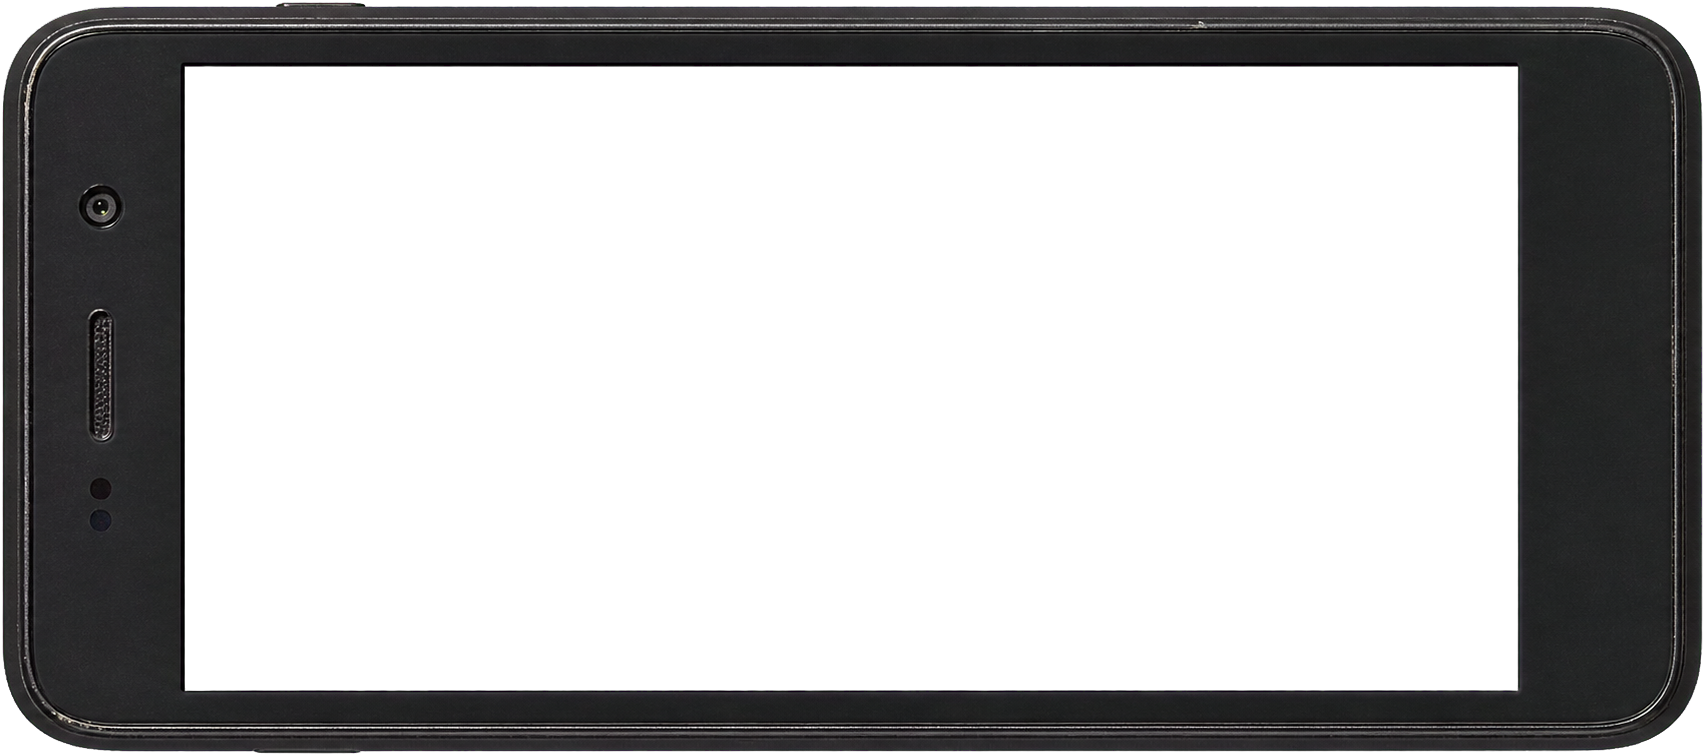
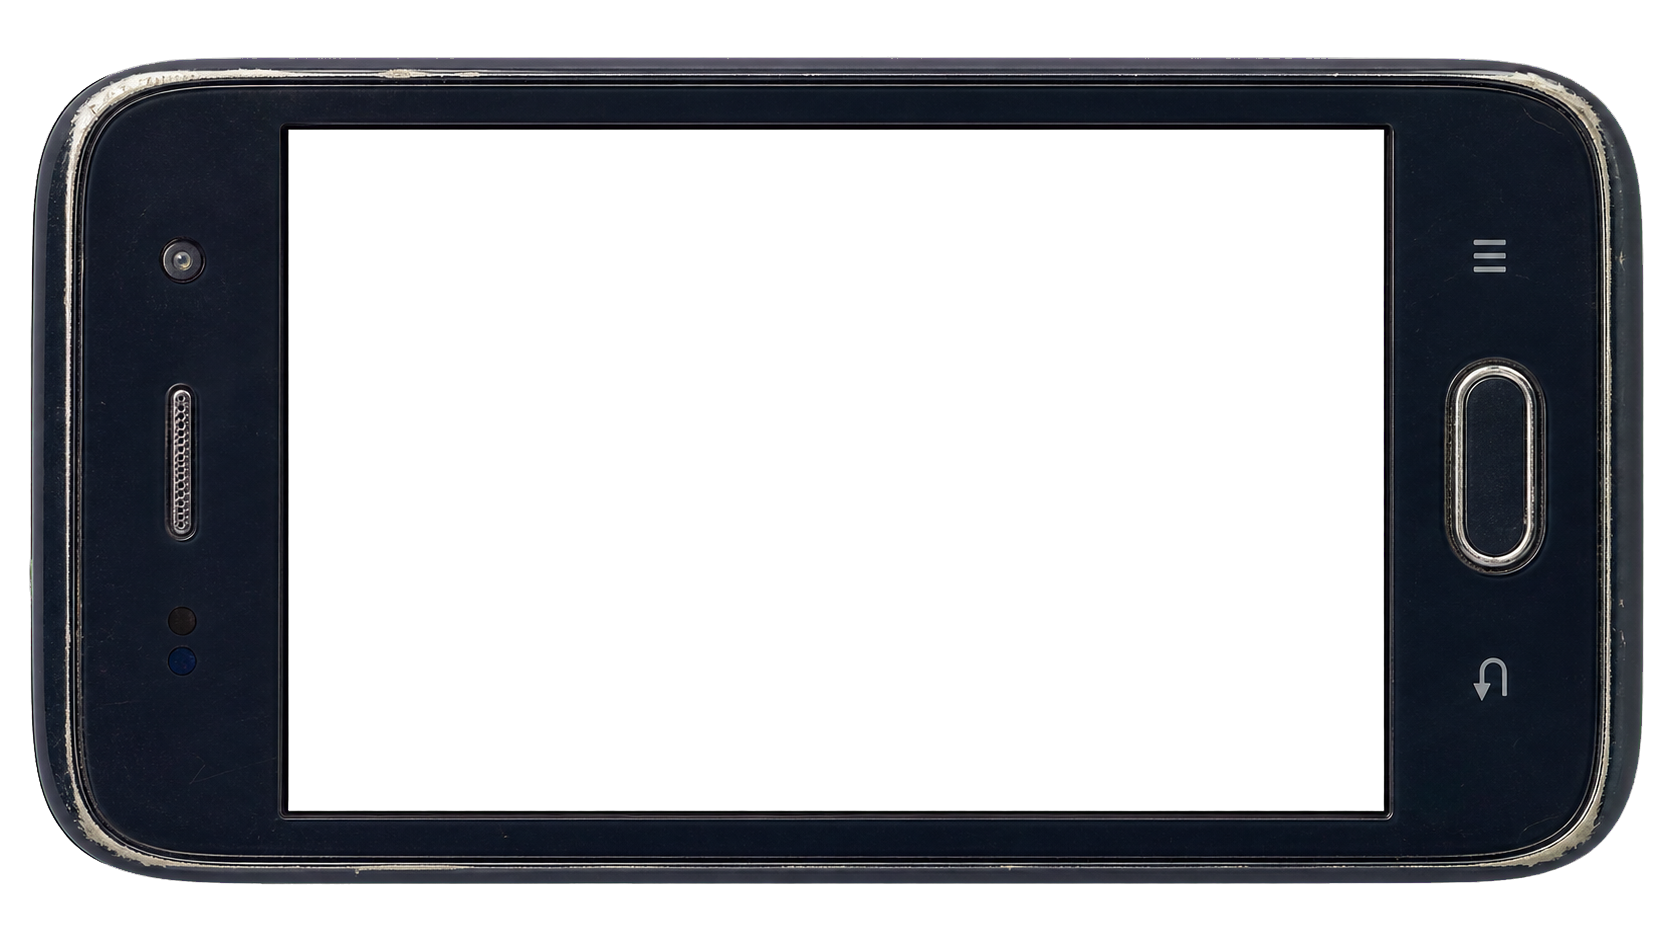
fix: make starter phone visibly outdated

diff --git a/assets/ui/phone/README.md b/assets/ui/phone/README.md
@@ -7,35 +7,53 @@ are transparent so `CoreLoopPlanner` can render live UI beneath it.
 
 | Runtime asset | Tier | Generated source | Processing |
 |---|---|---|---|
-| `phone_frame_starter.png` | 2017 hand-me-down budget phone | `/Users/junheelee/.codex/generated_images/019fabe6-f383-7b53-a060-7220e3ce36f4/call_OnKDiiGqoQCjKjy5q2oPD1Ox.png` | Built-in ImageGen, `#ff00ff` chroma removal and despill, safe crop, 1705×756 RGBA |
+| `phone_frame_starter.png` | 2013–2015 physical-key hand-me-down Android phone | `/Users/junheelee/.codex/generated_images/019fabe6-f383-7b53-a060-7220e3ce36f4/call_hMa0Rt1lA4eA5Y2UdldELHXK.png` | Built-in ImageGen edit, `#ff00ff` chroma removal and despill, 1672×940 RGBA |
 | `phone_frame_refurbished.png` | refurbished premium phone | `/Users/junheelee/.codex/generated_images/019fae08-cfb7-7073-b918-f55e32759797/call_qRdgoHMb0y1CIqOpbNRrCwAL.png` | Built-in ImageGen, `#ff00ff` chroma removal, safe crop, 1613×700 RGBA |
 | `phone_frame_flagship.png` | current-generation flagship | `/Users/junheelee/.codex/generated_images/019fabe6-f383-7b53-a060-7220e3ce36f4/call_Q5AeZUpaYR8DOASuE4inzUmK.png` | Built-in ImageGen, `#ff00ff` chroma removal and spill neutralization, safe crop, aspect correction, 1512×720 RGBA |
 
-The starter has 858,221 fully transparent, 12,383 partially transparent, and
-418,376 opaque pixels; the starter and refurbished assets have zero residual
-magenta pixels and fully transparent corner pixels. The flagship has 985,278 fully transparent,
-30,590 partially transparent, and 72,772 opaque pixels; all four corner alpha
-values are zero.
+The starter has 1,001,100 fully transparent, 10,754 partially transparent, and
+559,826 opaque pixels. Its four corner alpha values are zero. The rectangular
+display opening is transparent from x=289..1382 and y=130..809. The flagship
+has 985,278 fully transparent, 30,590 partially transparent, and 72,772 opaque
+pixels; all four corner alpha values are zero.
 
-## Exact prompts
+## Source prompts and replacement contracts
 
-### Starter
+The current starter replaced the 2017 shell after a human NO-GO that it still
+read as a current phone. The prior tracked starter was supplied to built-in
+ImageGen as the edit target with this exact prompt:
 
 ```text
-Use case: product-mockup
-Asset type: Gangnam Dream in-game diegetic smartphone shell overlay, STARTER / OLD HAND-ME-DOWN device tier, second production pass
-Primary request: Create one unmistakably outdated, inexpensive, visibly used but functional Korean-market Android-style budget smartphone from roughly 2017, viewed perfectly straight-on from the front and already rotated clockwise into landscape orientation. It must read as an old hand-me-down phone in 2026, never as a current flagship, while leaving enough display width for a game UI.
-Scene/backdrop: The entire area outside the physical phone AND the entire display opening inside the bezel must be one perfectly flat solid #ff00ff chroma-key color for later transparency removal. No floor plane.
-Subject: A single unbranded old budget smartphone physical shell only. Clearly visible thick black plastic LEFT and RIGHT short-side bezels in landscape and moderately thick top/bottom bezels. On the LEFT short bezel only, include one narrow old-fashioned earpiece slit, one small circular front camera, and two tiny sensor dots. The RIGHT short bezel must be completely plain. No physical home button and no printed or illuminated navigation symbols. Chunky rounded matte-to-semi-gloss dark charcoal polycarbonate frame, modest manufacturing seams, several subtle edge scuffs and softened corners, but no cracks and no protective case.
-Proportion requirement: Overall outside phone silhouette approximately 2.20:1 width-to-height. Empty display opening approximately 2.00:1 width-to-height. Each LEFT and RIGHT bezel should occupy roughly 7–8% of total width, and top/bottom bezel roughly 4–5% of total height. Do not create a square or 16:10 display opening.
-Style/medium: Photorealistic restrained product render for a serious Korean social-reality game, believable used electronics rather than parody.
-Composition/framing: Orthographic exact front elevation, centered and perfectly level, complete device visible with even generous padding, no perspective, no three-quarter angle, no tilt.
-Lighting/mood: Very restrained neutral studio edge highlight on the solid plastic shell only; no cast shadow, contact shadow, glow, reflection, or gradient in the background or display opening.
-Color palette: Worn black and dark charcoal plastic only. Never use magenta in the physical phone.
-Materials/textures: Inexpensive polycarbonate, older thicker front glass, light realistic edge wear only on the shell.
-Constraints: Physical bezel/frame/shell only. The full rectangular screen opening must remain completely empty perfectly flat #ff00ff. The full outside background must remain completely flat #ff00ff. Crisp isolated silhouette, exactly one device. No logo, brand, UI, icons, symbols, text, wallpaper, status bar, buttons on the front face, hands, stand, cable, rear camera, accessories, watermark.
-Avoid: contemporary edge-to-edge display, thin uniform bezel, hole-punch camera, notch, pill cutout, curved display, foldable phone, titanium or premium metal, physical home button, capacitive key markings, modern gesture bar, rugged bumper case, gaming-phone decorations, excessive damage, broken glass, futuristic concept art, perspective distortion, shadows, gradients or lighting variation in either chroma-key region.
+Use case: precise-object-edit
+Asset type: transparent physical phone shell overlay for a Godot game UI
+Input image 1: edit target and exact composition reference
+Primary request: redesign only the physical handset as an unmistakably old 2013–2015 low-end Android hand-me-down phone, shown straight-on in landscape orientation. Keep a clean rectangular 16:9 screen opening in the center for game UI compositing.
+Subject: chunky dark navy-black glossy polycarbonate body; very thick left and right short-side bezels and clearly thick top/bottom bezels; slightly bulbous rounded plastic edges; visible cheap molded seams; worn silver-painted trim with rubbed corners and small everyday scuffs. On the LEFT short bezel, include a long horizontal earpiece slit (rotated with the phone), a small circular front camera, and two sensor dots. On the RIGHT short bezel, include one unmistakable raised oval physical HOME button plus two faint old capacitive MENU and BACK symbols. The three physical controls must read clearly even when the asset is reduced to about 850 pixels wide.
+Scene/backdrop: the entire outside background and the entire screen opening must be perfectly flat solid #ff00ff chroma key.
+Composition/framing: exactly one whole phone, centered, orthographic front view, landscape, no perspective tilt, generous even padding, wide 16:9-ish handset silhouette.
+Style/medium: photorealistic isolated product material, ordinary used budget phone, deliberately dated rather than sleek or premium.
+Materials/textures: thick glossy cheap plastic, slightly yellowed/rubbed trim, subtle fingerprints and edge wear, no cracks.
+Constraints: change the shell design while preserving a simple centered empty rectangular screen opening; both outside and screen opening are uniform #ff00ff with no shadows, gradients, texture, reflections, or lighting variation; crisp isolated silhouette; no #ff00ff on the device; no logo or brand; no UI, icons, wallpaper, status bar, text, hands, case, stand, cable, rear camera, accessories, watermark.
+Avoid: modern edge-to-edge display, thin uniform bezel, metal or titanium rails, hole-punch/notch, gesture bar, symmetrical premium silhouette, rounded modern app screen, protective case.
 ```
+
+### Starter replacement runtime contract
+
+- The shell must visibly retain worn polycarbonate, thick asymmetric bezels,
+  an earpiece, camera/sensors, a physical oval Home key, and printed Menu/Back
+  symbols. It should read as a used 2013–2015 low-cost Android handset before
+  the player reads any text.
+- The 1094×680 glass opening is filled by a black mat. The live LCD is inset by
+  32 source pixels at the top and bottom, producing an approximately 16:9
+  display instead of stretching the UI across the whole older glass opening.
+- Starter-only rendering uses a 5px screen corner, muted blue-gray LCD base,
+  light haze, no photographic wallpaper, and 56px app tiles with 8px corners.
+  Refurbished and flagship rendering retain their existing modern treatment.
+- The shell already contains the three navigation controls. Runtime buttons
+  over Menu/Home/Back have empty text and transparent states; they are only
+  pointer hit areas aligned to those physical controls.
+- The status bar uses the live game date, `LTE`, and battery percentage. It
+  must not restore the generic `09:41` product-marketing time.
 
 ### Refurbished
 
